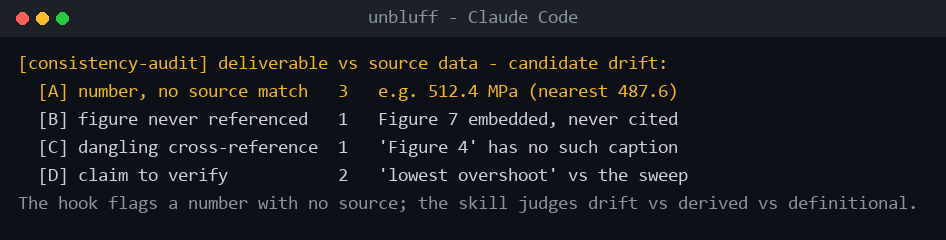
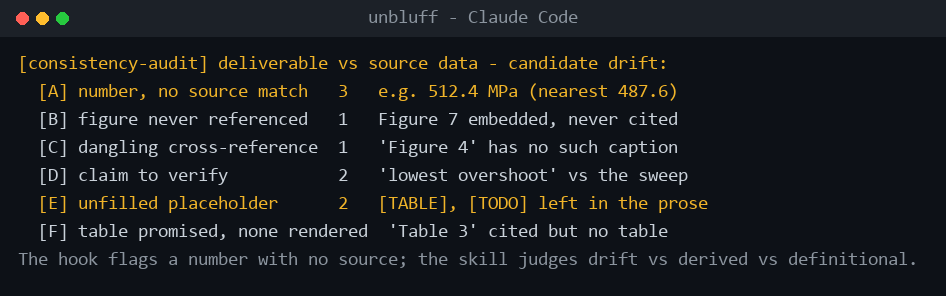
feat(consistency-audit): add placeholder + promised-but-missing-table checks
From field feedback: the skill missed placeholder tables. Add two mechanical
drift classes and fix a latent figure/table caption collision.

- [E] unfilled placeholders: bracketed [TABLE]/[TODO]/[insert ...]/[XX], empty
  or ellipsis brackets, <placeholder>, and bare TKTK/XXXX/TBD. Skips [12]-style
  citations, [N/A] values, and [label](url) markdown links to stay low-noise.
- [F] tables referenced/captioned but not rendered: prose promises "Table N"
  (a ref or caption) yet the deliverable renders no markdown/HTML/LaTeX table -
  the placeholder-table case. Also lists dangling "Table N" refs with no caption.
- fix: figure captions and table captions were merged on the same key, so a
  "Table 1" caption could satisfy a "Figure 1" reference. Split them.
- extract.py: find_table_refs/find_table_captions/count_table_structures/
  find_placeholders; audit.py: _table_findings + [E]/[F] report sections.
- Self-tests cover placeholders (and the citation/N-A/link exclusions), the
  caption-collision fix, table-structure counting, and an end-to-end
  promised-but-missing Table 3 + dangling Table 9. SKILL.md/README/CHANGELOG
  updated to six classes; demo card regenerated with [E]/[F].

diff --git a/skills/consistency-audit/scripts/audit.py b/skills/consistency-audit/scripts/audit.py
@@ -66,7 +66,9 @@ def analyse(deliverable: str, source_dirs, rel_tol: float, abs_tol: float):
             })
 
     figures = _figure_findings(text)
+    tables = _table_findings(text)
     claims = _claim_candidates(text, {u["value"] for u in unmatched})
+    placeholders = [{"line": ln, "text": t} for ln, t in extract.find_placeholders(text)]
 
     return {
         "deliverable": name,
@@ -78,13 +80,17 @@ def analyse(deliverable: str, source_dirs, rel_tol: float, abs_tol: float):
         "orphan_figures": figures["orphans"],
         "dangling_figure_refs": figures["dangling"],
         "uncaptioned_embeds": figures["uncaptioned_embeds"],
+        "placeholders": placeholders,
+        "table_structures": tables["structures"],
+        "dangling_table_refs": tables["dangling"],
+        "tables_referenced_not_rendered": tables["missing"],
         "claim_candidates": claims,
         "tolerance": {"rel": rel_tol, "abs": abs_tol},
     }
 
 
 def _figure_findings(text: str):
-    captions = extract.find_captions(text)
+    captions = extract.find_figure_captions(text)
     refs = extract.find_figure_refs(text)
     ref_lines = {}
     for num, line in refs:
@@ -99,6 +105,35 @@ def _figure_findings(text: str):
         if num not in captions:
             dangling.append({"figure": num, "lines": sorted(set(lines))})
     return {"orphans": orphans, "dangling": dangling, "uncaptioned_embeds": []}
+
+
+def _table_findings(text: str):
+    """Table cross-refs with no caption, and 'Table N' cited/captioned but no table rendered.
+
+    The complement of the figure checks, plus the placeholder-table case: a report can
+    reference or caption 'Table N' while the actual table body was never filled in.
+    """
+    structures = extract.count_table_structures(text)
+    captions = extract.find_table_captions(text)
+    refs = extract.find_table_refs(text)
+    ref_lines = {}
+    for num, line in refs:
+        ref_lines.setdefault(num, []).append(line)
+    dangling = []
+    for num, lines in sorted(ref_lines.items()):
+        cap_line = captions[num][0] if num in captions else None
+        other = [ln for ln in lines if ln != cap_line]
+        if num not in captions and other:
+            dangling.append({"table": num, "lines": sorted(set(other))})
+    # Tables are referenced or captioned, but the deliverable renders no table at all
+    # -> the bodies are missing/placeholder. (The prose promises a table; none exists.)
+    missing = None
+    if structures == 0 and (captions or ref_lines):
+        promised = sorted(set(list(captions) + list(ref_lines)))
+        missing = {"promised": promised,
+                   "captions": sorted(captions),
+                   "referenced": sorted(ref_lines)}
+    return {"structures": structures, "dangling": dangling, "missing": missing}
 
 
 def _claim_candidates(text: str, unmatched_values, cap: int = 15):
@@ -170,6 +205,28 @@ def render_text(r: dict) -> str:
     for c in r["claim_candidates"]:
         lines.append("  L%-5s (%s) %s" % (c["line"], c["why"], c["text"]))
     if not r["claim_candidates"]:
+        lines.append("  (none)")
+    lines.append("")
+
+    lines.append("[E] UNFILLED PLACEHOLDERS LEFT IN THE DELIVERABLE  -> %d"
+                 % len(r["placeholders"]))
+    for p in r["placeholders"]:
+        lines.append("  L%-5s %s" % (p["line"], p["text"]))
+    if not r["placeholders"]:
+        lines.append("  (none)")
+    lines.append("")
+
+    lines.append("[F] TABLES REFERENCED/CAPTIONED BUT NOT RENDERED  (%d table(s) found)"
+                 % r["table_structures"])
+    miss = r["tables_referenced_not_rendered"]
+    if miss:
+        lines.append("  Table(s) %s promised in prose but NO table is rendered in the "
+                     "deliverable - likely placeholder/unfilled."
+                     % ", ".join(miss["promised"]))
+    for d in r["dangling_table_refs"]:
+        lines.append("  'Table %s' referenced at L%s but no such caption"
+                     % (d["table"], ",".join(map(str, d["lines"]))))
+    if not miss and not r["dangling_table_refs"]:
         lines.append("  (none)")
     lines.append("")
     lines.append("NOTE: every item above is a CANDIDATE. A number may be legitimately "
@@ -255,6 +312,37 @@ def selftest() -> int:
             fails.append("Figure 4 should be a dangling ref (no caption)")
         if not r["claim_candidates"]:
             fails.append("'highest observed' claim should be a candidate")
+
+    # 4) placeholders + table structure (the added mechanical checks)
+    ph = [t for _, t in extract.find_placeholders(
+        "Overshoot [TODO] and see Table 2 [insert value]. Cite [12] stays. [N/A] stays. "
+        "[Table of contents](#toc) is a link.")]
+    if "[TODO]" not in ph or not any("insert" in t.lower() for t in ph):
+        fails.append("placeholders missed: %r" % ph)
+    if any(t == "[12]" for t in ph) or any("N/A" in t for t in ph) or any("toc" in t.lower() for t in ph):
+        fails.append("citation / N-A / md-link wrongly flagged: %r" % ph)
+    if extract.find_figure_captions("Table 1: results\n"):
+        fails.append("table caption leaked into figure captions (collision)")
+    if extract.count_table_structures("| a | b |\n|---|---|\n| 1 | 2 |\n") != 1:
+        fails.append("markdown table not counted")
+
+    # 5) end-to-end: Table 3 promised but no table rendered (placeholder), Table 9 dangling
+    with tempfile.TemporaryDirectory() as d:
+        csv = os.path.join(d, "data.csv")
+        with open(csv, "w", encoding="utf-8") as fh:
+            fh.write("v\n1.0\n")
+        rep = os.path.join(d, "report.md")
+        with open(rep, "w", encoding="utf-8") as fh:
+            fh.write("Results are summarised in Table 3.\n"
+                     "Table 3: [TABLE TO BE INSERTED]\n"
+                     "See also Table 9 for details.\n")
+        r = analyse(rep, [csv], 0.01, 1e-9)
+        if not r["placeholders"]:
+            fails.append("placeholder table not flagged")
+        if not r["tables_referenced_not_rendered"]:
+            fails.append("Table 3 promised but not rendered should be flagged")
+        if not any(dd["table"] == "9" for dd in r["dangling_table_refs"]):
+            fails.append("Table 9 should be a dangling table ref")
 
     for f in fails:
         print("SELFTEST FAIL:", f)

diff --git a/skills/consistency-audit/scripts/extract.py b/skills/consistency-audit/scripts/extract.py
@@ -236,17 +236,43 @@ def find_numbers(text: str, context_chars: int = 60) -> List[NumberCite]:
 
 
 # --------------------------------------------------------------------------- #
-# Figure references, embeds and captions
+# Figure / table references, embeds, captions - and unfilled placeholders
 # --------------------------------------------------------------------------- #
 
 _FIG_REF_RE = re.compile(r"(?:figure|fig)\.?\s*([0-9]+(?:\.[0-9]+)?)", re.IGNORECASE)
-_CAPTION_RE = re.compile(
-    r"^\s*(?:figure|fig|table|tbl)\.?\s*([0-9]+(?:\.[0-9]+)?)\s*[:.\-–]\s*(.+?)\s*$",
-    re.IGNORECASE,
-)
+_TBL_REF_RE = re.compile(r"(?:table|tbl)\.?\s*([0-9]+(?:\.[0-9]+)?)", re.IGNORECASE)
+_FIG_CAPTION_RE = re.compile(
+    r"^\s*(?:figure|fig)\.?\s*([0-9]+(?:\.[0-9]+)?)\s*[:.\-–]\s*(.+?)\s*$", re.IGNORECASE)
+_TBL_CAPTION_RE = re.compile(
+    r"^\s*(?:table|tbl)\.?\s*([0-9]+(?:\.[0-9]+)?)\s*[:.\-–]\s*(.+?)\s*$", re.IGNORECASE)
 _MD_IMG_RE = re.compile(r"!\[[^\]]*\]\(([^)\s]+)")
 _HTML_IMG_RE = re.compile(r"<img[^>]+src=[\"']([^\"']+)", re.IGNORECASE)
 _TEX_IMG_RE = re.compile(r"\\includegraphics(?:\[[^\]]*\])?\{([^}]+)\}")
+
+# A RENDERED table: a markdown separator row (|---|---|), an HTML <table>, or a
+# LaTeX tabular/table environment. Used to tell a real table from a placeholder.
+_MD_TABLE_SEP_RE = re.compile(r"^\s*\|?\s*:?-{3,}:?\s*(?:\|\s*:?-{3,}:?\s*)+\|?\s*$",
+                              re.MULTILINE)
+_HTML_TABLE_RE = re.compile(r"<table[\s>]", re.IGNORECASE)
+_TEX_TABLE_RE = re.compile(r"\\begin\{(?:tabular|longtable|table)\}", re.IGNORECASE)
+
+# Unfilled placeholders left in a deliverable: bracketed placeholder vocabulary,
+# empty / ellipsis brackets, angle-bracket placeholders, and the classic bare
+# markers (TKTK, XXXX, TBD). Deliberately NOT matching [12]-style citations or
+# [N/A] values.
+_PLACEHOLDER_VOCAB = (
+    r"table|tbl|figure|fig|graph|chart|plot|todo|tbd|fixme|placeholder|insert|"
+    r"fill[\s-]?in|to[\s-]?do|to[\s-]?come|pending|value|values|data|number|"
+    r"result|results|citation|cite|ref|xx+|tk"
+)
+_PLACEHOLDER_RE = re.compile(
+    r"\[\s*\]"                                                 # empty [ ]
+    r"|\[\s*\.\.\.\s*\]"                                       # [ ... ]
+    r"|\[[^\]]*\b(?:" + _PLACEHOLDER_VOCAB + r")\b[^\]]*\]"    # [ ... TABLE ... ]
+    r"|<[^>]*\b(?:placeholder|insert|todo|tbd)\b[^>]*>"        # <placeholder ...>
+    r"|\bTKTK\b|\bXXXX+\b|\bTBD\b",                            # bare classic markers
+    re.IGNORECASE,
+)
 
 
 def find_figure_refs(text: str) -> List[Tuple[str, int]]:
@@ -254,14 +280,50 @@ def find_figure_refs(text: str) -> List[Tuple[str, int]]:
     return [(m.group(1), _line_of(text, m.start())) for m in _FIG_REF_RE.finditer(text)]
 
 
-def find_captions(text: str) -> Dict[str, Tuple[int, str]]:
-    """Map 'Figure/Table N' -> (line, caption text) for lines that look like captions."""
-    captions: Dict[str, Tuple[int, str]] = {}
+def find_table_refs(text: str) -> List[Tuple[str, int]]:
+    """All in-text 'Table N' mentions as (number, line)."""
+    return [(m.group(1), _line_of(text, m.start())) for m in _TBL_REF_RE.finditer(text)]
+
+
+def _captions(text: str, regex) -> Dict[str, Tuple[int, str]]:
+    caps: Dict[str, Tuple[int, str]] = {}
     for lineno, line in enumerate(text.splitlines(), 1):
-        m = _CAPTION_RE.match(line)
+        m = regex.match(line)
         if m:
-            captions.setdefault(m.group(1), (lineno, m.group(2).strip()))
-    return captions
+            caps.setdefault(m.group(1), (lineno, m.group(2).strip()))
+    return caps
+
+
+def find_figure_captions(text: str) -> Dict[str, Tuple[int, str]]:
+    """Map 'Figure N' -> (line, caption text) for figure caption lines."""
+    return _captions(text, _FIG_CAPTION_RE)
+
+
+def find_table_captions(text: str) -> Dict[str, Tuple[int, str]]:
+    """Map 'Table N' -> (line, caption text) for table caption lines."""
+    return _captions(text, _TBL_CAPTION_RE)
+
+
+def count_table_structures(text: str) -> int:
+    """Number of RENDERED tables (markdown/html/latex) present in the text."""
+    return (len(_MD_TABLE_SEP_RE.findall(text))
+            + len(_HTML_TABLE_RE.findall(text))
+            + len(_TEX_TABLE_RE.findall(text)))
+
+
+def find_placeholders(text: str, cap: int = 40) -> List[Tuple[int, str]]:
+    """Unfilled placeholders left in the deliverable as (line, matched text).
+
+    Skips markdown links `[label](url)` - the label is not a placeholder.
+    """
+    out: List[Tuple[int, str]] = []
+    for m in _PLACEHOLDER_RE.finditer(text):
+        if m.group(0).startswith("[") and m.end() < len(text) and text[m.end()] == "(":
+            continue  # [label](url) markdown link, not a placeholder
+        out.append((_line_of(text, m.start()), m.group(0).strip()))
+        if len(out) >= cap:
+            break
+    return out
 
 
 def find_figure_embeds(path: str, text: str) -> List[str]:

diff --git a/scripts/make_demos.py b/scripts/make_demos.py
@@ -276,6 +276,8 @@ CONSISTENCY_AUDIT = [
     ("  [B] figure never referenced   1   Figure 7 embedded, never cited", DEFAULT),
     ("  [C] dangling cross-reference  1   'Figure 4' has no such caption", DEFAULT),
     ("  [D] claim to verify           2   'lowest overshoot' vs the sweep", DEFAULT),
+    ("  [E] unfilled placeholder      2   [TABLE], [TODO] left in the prose", AMBER),
+    ("  [F] table promised, none rendered  'Table 3' cited but no table", DEFAULT),
     ("The hook flags a number with no source; the skill judges drift vs derived vs definitional.", DIM),
 ]
 

diff --git a/skills/consistency-audit/SKILL.md b/skills/consistency-audit/SKILL.md
@@ -20,7 +20,7 @@ figure got embedded but never referenced, a "see Figure 4" pointed at a caption 
 had become Figure 5, and a superlative ("the lowest overshoot") no longer matched any
 row. None of these are syntax errors - they are consistency drift.
 
-## The four drift classes
+## The six drift classes
 
 - **(A) Number with no source match** - a value in the prose that appears in no source
   file within tolerance. Possible stale edit or fabrication. *The important one.*
@@ -29,6 +29,11 @@ row. None of these are syntax errors - they are consistency drift.
   (or a number that no longer lines up with the caption it points to).
 - **(D) Unsupported claim** - a comparative/superlative or quantitative claim whose
   supporting number is absent or unmatched. *Only Claude can settle these.*
+- **(E) Unfilled placeholder** - a bracketed placeholder left in the deliverable
+  (`[TABLE]`, `[TODO]`, `[insert value]`, `[XX]`, `TKTK`, `TBD`, ...). Should never ship.
+- **(F) Table referenced/captioned but not rendered** - the prose promises "Table N"
+  (a reference or a caption) yet the deliverable contains no actual table - the classic
+  placeholder-table miss.
 
 ## Inputs
 
@@ -47,7 +52,7 @@ python <skill_dir>/scripts/audit.py \
 ```
 It normalises the deliverable to text (docx/pdf need `python-docx`/`pdftotext`/PyMuPDF/
 pdfminer if the format is binary - it prints exact guidance if none is available),
-indexes every numeric value in the sources, and prints candidates grouped [A]-[D].
+indexes every numeric value in the sources, and prints candidates grouped [A]-[F].
 If extraction fails, produce a text/markdown export of the deliverable and re-run.
 
 ### STEP 2 - Adjudicate the mechanical flags (this is the point)
@@ -63,6 +68,10 @@ The script proposes; **you decide**. For each candidate, do not just repeat it:
   referenced by a name the regex missed? Confirm before recommending removal.
 - **[C] dangling refs** - did the figure/table numbering shift? Trace the reference to
   the caption it *should* point to and report the corrected number.
+- **[E] placeholders** - a leftover `[TABLE]`/`[TODO]`/`[insert ...]` is almost always a
+  real defect: fill it from the source or remove it. Zero placeholders should ship.
+- **[F] promised-but-missing tables** - if the prose says "Table N" (or captions one) but
+  no table is rendered, build the table from the source data or drop the reference.
 
 ### STEP 3 - The reasoning pass (the half no hook can do)
 Now do what the script cannot:

diff --git a/CHANGELOG.md b/CHANGELOG.md
@@ -24,10 +24,12 @@ no longer appears anywhere in the data it was computed from. `show_your_proof` c
   `--selftest`-able; the installer now points the single PostToolUse entry at the dispatcher.
 - **`consistency-audit`** skill - the reasoning half that pairs with `numbers-match`, the way
   `source-coverage` pairs with `plan_defer_guard`. Ships a bundled, format-agnostic extractor
-  (docx/pdf/tex/md) that surfaces four drift classes - numbers with no source match, figures
-  embedded but never referenced, cross-references with no matching caption, and claims whose
-  supporting number is absent - which the model then adjudicates against the data. The installer
-  now copies a skill's whole directory (SKILL.md + any bundled `scripts/`), not just SKILL.md.
+  (docx/pdf/tex/md) that surfaces six drift classes - numbers with no source match, figures
+  embedded but never referenced, cross-references with no matching caption, claims whose
+  supporting number is absent, unfilled bracketed placeholders (`[TABLE]`/`[TODO]`/`[insert ...]`),
+  and tables the prose promises ("Table N") but never renders - which the model then adjudicates
+  against the data. The installer now copies a skill's whole directory (SKILL.md + any bundled
+  `scripts/`), not just SKILL.md.
 - `run_selftests.py` + CI now cover both new hook modules; the integration test fires `numbers-match`
   end to end (H2), confirms `plan_defer_guard` still fires through the new dispatcher (H1), and
   checks the `consistency-audit` skill installs with its scripts (A7).

diff --git a/README.md b/README.md
@@ -102,7 +102,7 @@ is a mechanical check, not a judge.
 It shares one **PostToolUse dispatcher** (`post_tooluse_dispatcher`) with `plan_defer_guard`, the same one-process design as `stop_dispatcher`: two PostToolUse hooks run in a single spawn per edit rather than two, and the shared fire-ledger records which fired.
 
 ### consistency-audit · skill
-The reasoning half that pairs with `numbers-match`, the way `source-coverage` pairs with `plan_defer_guard`. The hook can mechanically flag "this number appears in no source file"; it cannot decide whether an unmatched number is drift, a legitimate derivation, or a definition - nor can it check figures, cross-references, and whether a *claim* is actually supported and consistent across sections. This skill does. It runs a bundled, format-agnostic extractor (docx/pdf/tex/md) that surfaces four drift classes - numbers with no source match, figures embedded but never referenced, cross-references with no matching caption, and claims whose supporting number is absent - then you adjudicate each against the data. You invoke it on purpose - `/consistency-audit`, or on cues like "do the numbers still match the data? / is anything stale or fabricated?".
+The reasoning half that pairs with `numbers-match`, the way `source-coverage` pairs with `plan_defer_guard`. The hook can mechanically flag "this number appears in no source file"; it cannot decide whether an unmatched number is drift, a legitimate derivation, or a definition - nor can it check figures, cross-references, and whether a *claim* is actually supported and consistent across sections. This skill does. It runs a bundled, format-agnostic extractor (docx/pdf/tex/md) that surfaces six drift classes - numbers with no source match, figures embedded but never referenced, cross-references with no matching caption, claims whose supporting number is absent, unfilled bracketed placeholders (`[TABLE]`/`[TODO]`/...), and tables the prose promises but never renders - then you adjudicate each against the data. You invoke it on purpose - `/consistency-audit`, or on cues like "do the numbers still match the data? / is anything stale or fabricated?".
 
 ![consistency-audit reconciling a deliverable against its source data and grouping the drift](docs/consistency-audit.png)
 